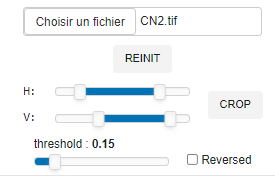
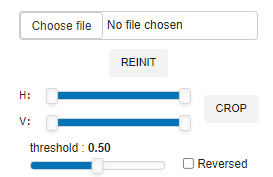
revisit doc and images

diff --git a/doc/README.md b/doc/README.md
@@ -1,59 +1,66 @@
-The registration is based on a `transformation matrix` calculated from 2 images: a ``moving`` and a ``fixed`` image.
+The registration is based on a `transformation matrix` calculated from 2 images: a ``moving`` image and a ``fixed`` image.
 
 Once the 2 images have been loaded, the registration workflow that consists in images resizing and binarization as preliminary steps, is automatically performed (default mode).
 
 The resulting `transformation matrix` can be applied to a set of images, assuming that these images are consistant with the one used previoulsy as 'moving image'.
 
+
 # image parameters settings
 
 The 2 images are loaded from the 2 dedicated boxes (**moving image** and **fixed image**) located at the top left of the window.
 
-Once loaded, the images can be cropped via the 2 ranges sliders defining the cropping area: the first one for the `H`orizonal range selection and the second one for the `V`ertical range selection.
+Once loaded, the images can be cropped via the 2 ranges sliders used to define the cropping rectangular area. 
+The first slider is related to the **Horizonal** range selection (`H`), the second one to the **Vertical** range selection (`V`). 
 
-The thresholds sliders are attached to the binarization processing. 
-To make the binarized images compatibles each other, the binarization step realizes automatic background detections. Nevertheless, in case of incorrect background determination, the user has the possibility to reverse each one of the binarized images.
+Cropping is performed after clicking on the `CROP` button.
+
+Note that for a sake of repetability only one cropping action is possible. To define a new cropping, the image has to be reinitialized with the `REINIT` button.
+
+The `threshold` sliders are attached to the binarization processing. 
+To make the binarized images compatible each other, the binarization step realizes automatic background detections. Nevertheless, in case of incorrect background determination, the user has the possibility to reverse each one of the binarized images thanks to the `Reversed` checkbox.
 
 ![](_static/image_settings.png)
 
 
 # images processing
 
-The images processing consists in a **resizing** step, a **binarization** step and a **registration** one.
+The images processing consists in a `Resizing` step, a `Binarization` step and a `Registration` one.
 
 ![](_static/images_processing.png)
 
 
-**Resizing** consists in a image projection from the low to the high image resolution in the aim to work with identical images shapes and make the registration possible. There is no constraint about which one of the 2 images (moving or fixed) should be low or high resolution. 
-Nonetheless, it is important to note that to preserve the same x-y scaling during the projection, a x or y padding can be added to the low image resolution.
+The `Resizing` step consists in an image projection from the low to the high image resolution in the aim to work with identical image shapes and make the registration possible. There is no constraint about which one of the 2 images (moving or fixed) should be low or high resolution. 
+Nonetheless, it is important to note that to preserve the same x-y scaling during the projection, a x or y 0-padding can be added to the low image resolution.
 
-**Binarization** relying on the threshold parameters defined above is an important step. For a correct registration, the binarized images should have the most similar rendering as possible.
+The `Binarization` step that relies on the threshold parameters defined above is an important step. For a correct registration, the pair of the binarized images should have the closest rendering/covering as possible in term of object representation.
 
-**Registration** is performed according to the [pyStackreg](https://pystackreg.readthedocs.io/en/latest/readme.html) library, considering the "scaled rotation" transformation (translation + rotation + scaling).
+The `Registration` step is performed according to the [pyStackreg](https://pystackreg.readthedocs.io/en/latest/readme.html) library, considering the "scaled rotation" transformation (translation + rotation + scaling).
 
-Once the **registration** has been done in automatic or iterative (step-by-step) mode, the user has the possibility to adjust manually the registration (translation and rotation). The center of rotation is defined from the xc, yc relative coordinates associated to the resized images.
+Once the registration has been done in an automatic or iterative (step-by-step) mode, the user has the possibility to adjust manually the registration (translation and rotation). The center considered for the rotation is defined from the xc, yc relative coordinates associated to the resized images.
 
 The resulting `transformation matrix` is displayed at any time in the bottom of the corresponding layout.
+
 
 # images viewing
 
 2 images view modes are available:
 
-- `Difference` (default mode), used to highlight the differences between the 2 binarized-registered images
+- `Difference` (default mode), used to highlight the differences between the 2 binarized/registered images
 
-- `Overlay` which represents the fused (averaged) image in gray colors
+- `Overlay` which represents the fused (or averaged) image in gray colors
 
 ![](_static/view_mode.png)
 
 
 # images batch application
 
-Once the registration has been done, the registration worflow (cropping, resizing, binarization and registration) can be applied similarly to a set of images defined in a `INPUT directory`. The resulting registred images are saved in the `OUTPUT directory` as well as the ``fixed`` image used as reference.
+Once the registration has been done, the registration worflow (cropping + resizing + binarization + registration) can be applied similarly to a set of images defined in a `INPUT directory`. The resulting registred images are saved in the `OUTPUT directory` with the ``fixed`` image used as reference.
 
 ![](_static/apply.png)
 
 
 # Saving and reloading
 
-All the workflow parameters and the transformation matrix can be saved to and reloaded from  a `.json` file.
+All the workflow parameters and the transformation matrix can be saved and reloaded from  a `.json` file.
 
 ![](_static/save_reload.png)

diff --git a/README.md b/README.md
@@ -3,22 +3,22 @@
 
 # Images_registration
 
-**images_registration** is an application dedicated to 1/ register a pair of images then 2/ to apply the transformation matrix to a set of images.
+**images_registration** is a web application dedicated to the calculation of the `transformation matrix` related to a pair of images and to the application of this transformation matrix to a set of images.
 
 
 # Installation
 
 All the application is contained in the `app.py` file located at the root of the repository.
 
-For a fast install, assuming you have already a python environment, you can just `copy` + `paste` this file and update your env. with the required packages listed in the `requirements.txt` file.
+For a fast install and assuming you have already a python environment, you can just `copy` + `paste` this file and update your env. with the required packages listed in the `requirements.txt` file.
 
-For a full install, install [git](https://git-scm.com/downloads), then clone the project:
+For a full install, clone the project from the following [git](https://git-scm.com/downloads) command:
 
 ```bash
 git clone https://github.dev/CEA-MetroCarac/images_registration.git
 ```
 
-Create and activate a virtual environment, as explained in [Python Virtual Environments: A Primer](https://realpython.com/python-virtual-environments-a-primer/), and install the `requirements.txt` file:
+Create and activate a dedicated virtual environment as explained [here](https://realpython.com/python-virtual-environments-a-primer/), and install the `requirements.txt` file:
 
 ```bash
 pip install -r requirements.txt -U
@@ -26,17 +26,18 @@ pip install -r requirements.txt -U
 
 ### Usage
 
-Once your python environment has been created and activated, you can launch the application on a Panel server via the instruction:
+Once your python environment has been created and activated, you can launch the web application in a terminal typing:
 
 ```python
-panel serve app.py --show --autoreload
+python app.py
 ```
+This instruction will launch the web application directly in your web browser.
 
-See the [documentation](https://github.com/CEA-MetroCarac/images_registration/tree/main/doc) for more details.
+for more informations concerning the application parameters setting, see the [documentation](https://github.com/CEA-MetroCarac/images_registration/tree/main/doc) .
 
 
 ### Authors informations
 
-In case you use this application to align images for a study wich leads to an article, please cite:
+In case you use this web application to align images for a study wich leads to an article, please cite:
 
 - https://github.dev/CEA-MetroCarac/images_registration
